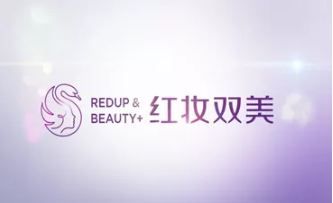
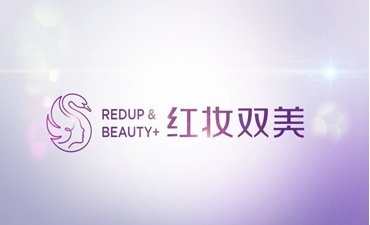
双美首页更改
双美首页更改

Changed region(s): [[0.1201, 0.4138, 0.8408, 0.6798]]

diff --git a/www.hzshuangmei.com/templets/shuangmei/index.htm b/www.hzshuangmei.com/templets/shuangmei/index.htm
@@ -23,7 +23,7 @@
 <div class="index_news">
     <div class="m1 clearFix">
         <div class="video">
-             <img src="{dede:global.cfg_imgpath/}/pc/band_N.png"  alt="品牌介绍"/>
+             <img src="{dede:global.cfg_imgpath/}/pc/band_N.jpg"  alt="品牌介绍" class="band_N"/>
 
         </div>
         <div class="news">
